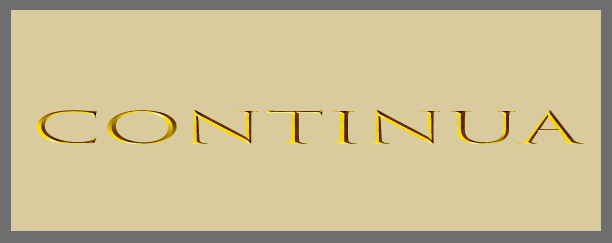
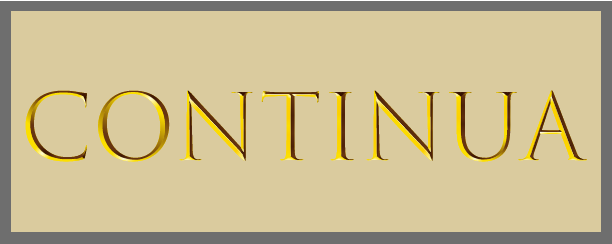
ccc

Changed region(s): [[0.031, 0.3457, 0.9624, 0.6626], [0.0, 0.0, 1.0, 0.0576]]

diff --git a/src/scenes/Level1.ts b/src/scenes/Level1.ts
@@ -74,6 +74,7 @@ export default class Level1 extends Phaser.Scene {
     create() {
         console.log("create:Level1");
         this.add.image(1024, 0, "log").setOrigin(1, 0).setDepth(14).setScale(0.3).setAlpha(1).setScrollFactor(0);
+        
     }
 
     createCollider() {
@@ -103,12 +104,9 @@ this.scene.get('Keypad').events.on('wake', () => {
          // Esegui un'azione ogni tot millisecondi
          if (this.elapsedTime >= 1000) {
              // Aumenta l'opacità dei layer della mappa
-             this.layer.setAlpha(Math.min(1, this.layer.alpha + 0.3));
-             this.layer2.setAlpha(Math.min(1, this.layer2.alpha + 0.3));
-             this.layerEnd.setAlpha(Math.min(1, this.layerEnd.alpha + 0.3));
- 
-             // Puoi anche aumentare l'opacità dell'intera scena
-             // this.cameras.main.setAlpha(Math.min(1, this.cameras.main.alpha + 0.1));
+             this.layer.setAlpha(Math.min(1, this.layer.alpha + 3));
+             this.layer2.setAlpha(Math.min(1, this.layer2.alpha + 3));
+             this.layerEnd.setAlpha(Math.min(1, this.layerEnd.alpha + 3));
  
              // Resetta il tempo trascorso
              this.elapsedTime = 0;

diff --git a/src/components/Player.ts b/src/components/Player.ts
@@ -51,7 +51,7 @@ export default class Player extends Phaser.GameObjects.Sprite implements IPlayer
 		this._body.setCollideWorldBounds(true).setSize(43,60);
         this._body.setOffset(0,0)
 		this._cursors = this._scene.input.keyboard.createCursorKeys();
-		this.setDepth(10).setScale(0.9);
+		this.setDepth(10).setScale(0.75);
 		this.pause=false;
         this.keyA = this._scene.input.keyboard.addKey(Phaser.Input.Keyboard.KeyCodes.A);
         this.keyD = this._scene.input.keyboard.addKey(Phaser.Input.Keyboard.KeyCodes.D);
@@ -107,7 +107,7 @@ export default class Player extends Phaser.GameObjects.Sprite implements IPlayer
                         this._body.setVelocityY(-300)
                     }
                 }
-                this.anims.play('move', true);
+                this.anims.play('idle', true);
             }
             this.jmp = true;
 

diff --git a/src/scenes/Intro.ts b/src/scenes/Intro.ts
@@ -19,7 +19,7 @@ export default class Intro extends Phaser.Scene {
       this.scene.start("Level1");
     });
     this.playText=this.add.text(this.game.canvas.width/2-5,230,"PREMI SULLA PORTA",{fontSize:"40px"})
-    .setColor("#cccc98")
+    .setColor("##5f493e")
     .setFontStyle("bold")
     .setDepth(1)
     .setOrigin(0.5,-8)
@@ -29,7 +29,7 @@ export default class Intro extends Phaser.Scene {
       this.scene.start("Level1");
     });
     
-    this.logo=this.add.image(this.game.canvas.width/2-9,130,"logo-game").setScale(0.85).setDepth(1);
+    this.logo=this.add.image(this.game.canvas.width/2-9,80,"logo-game").setScale(0.9).setDepth(1);
 
 
   }
